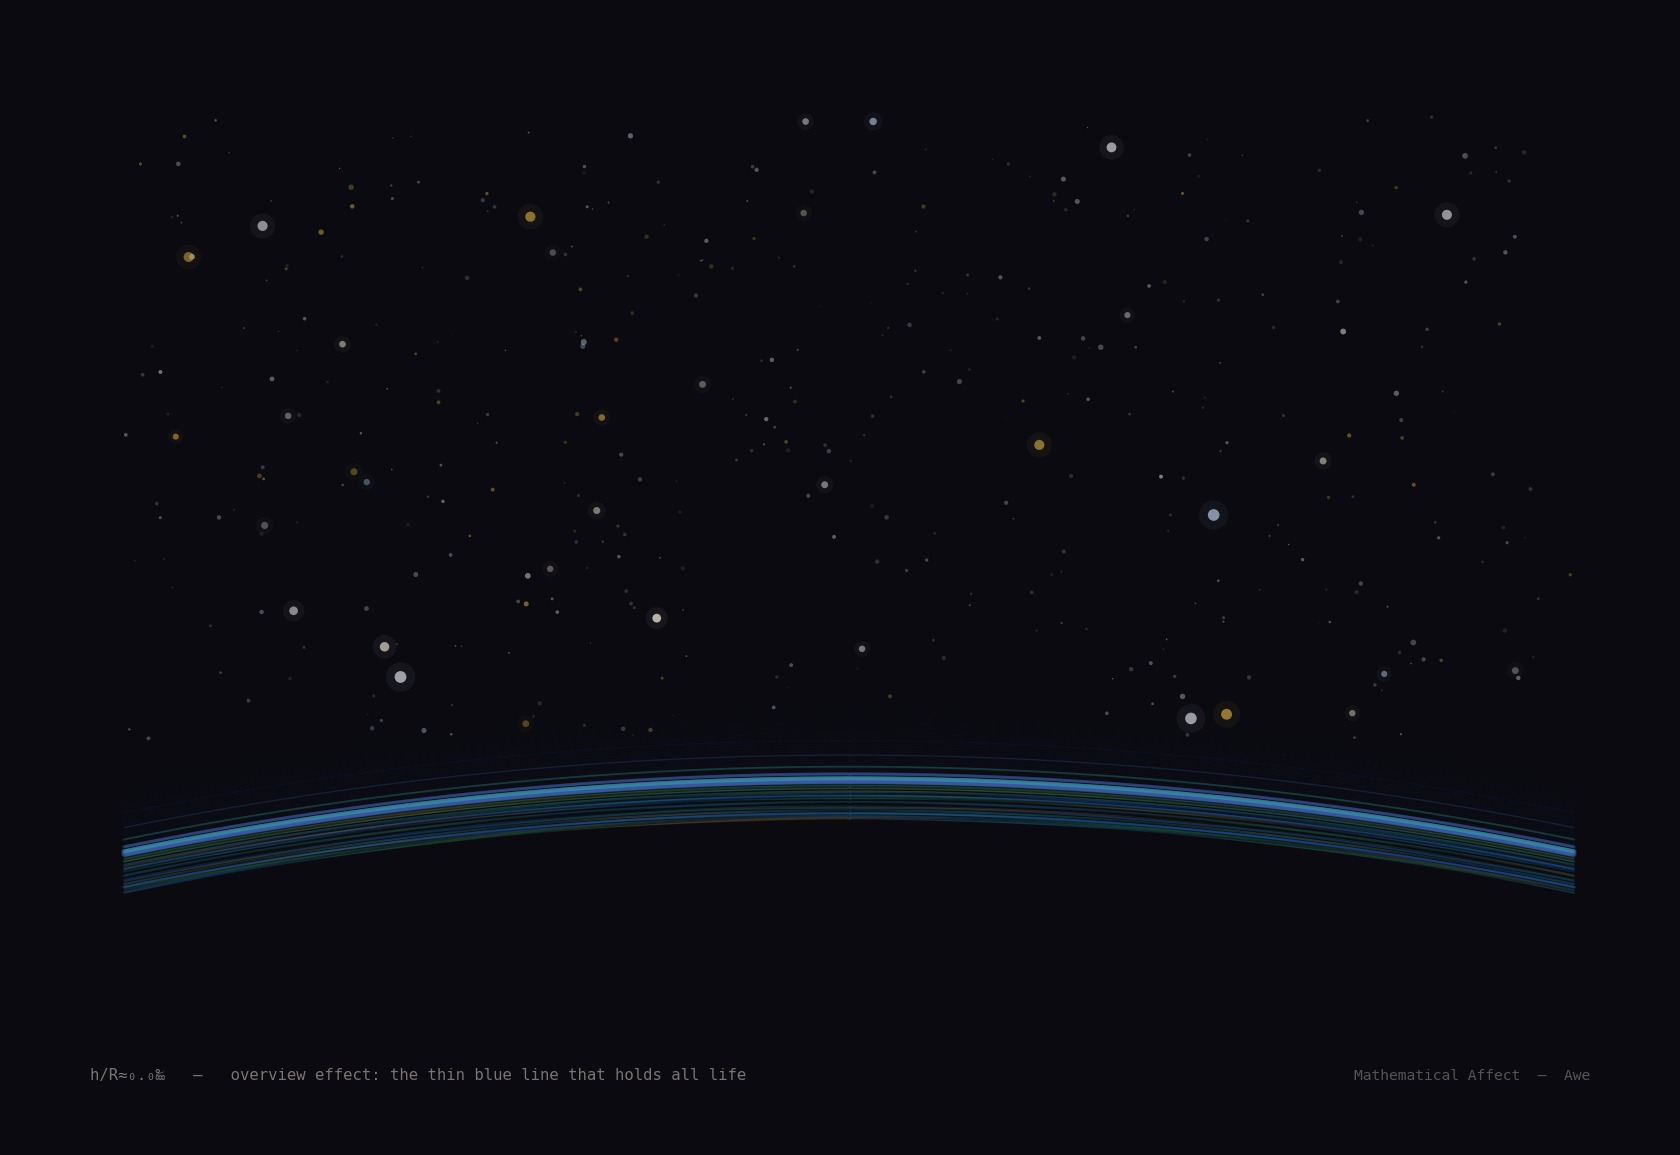
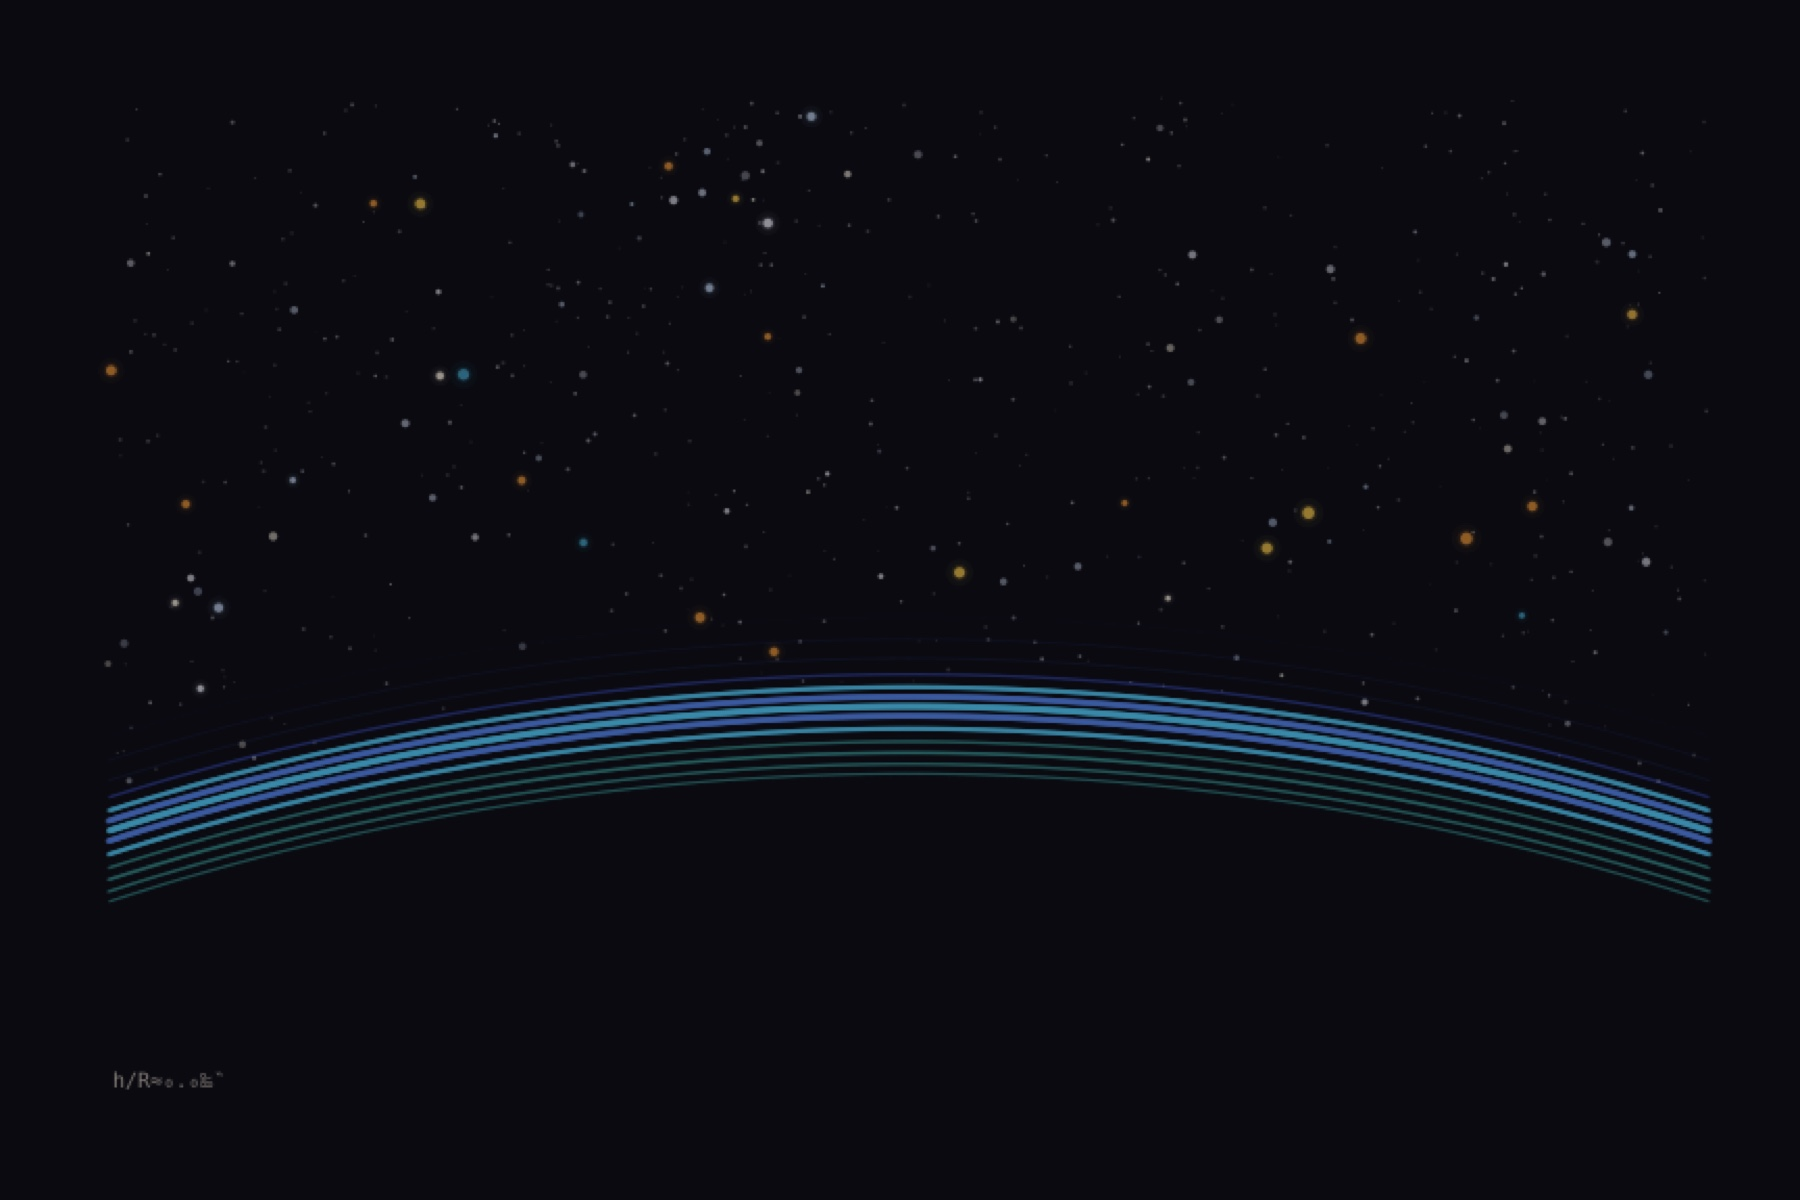
Ship awe series — all 5 standalone scripts, fix overview atmosphere lines
- awe_overview: wider arc curvature, clearly separated atmosphere layers
- awe_cosmic_web, awe_deep_field, awe_murmuration, awe_radiance: approved as-is
All 5 standalone scripts committed.

diff --git a/mathematical_affect/pieces/awe/awe_overview.py b/mathematical_affect/pieces/awe/awe_overview.py
@@ -141,34 +141,34 @@ def render():
     fig, ax = make_fig()
     rng = np.random.RandomState(42)
     # Large arc representing Earth's limb near bottom of canvas
-    earth_r = PW * 2.5  # very large radius — nearly flat curve
+    earth_r = PW * 1.6  # smaller radius — more visible curvature
     earth_cx = cx
-    earth_cy = PAD_B - earth_r + PH * 0.25
+    earth_cy = PAD_B - earth_r + PH * 0.30
 
-    theta_range = np.linspace(-0.20, 0.20, 1000)
+    theta_range = np.linspace(-0.38, 0.38, 1000)
 
-    # --- 1. Primary atmosphere layers: 12 distinct arcs forming thick band ---
-    #     Inner (0-3): teal/green tones
-    #     Core  (4-7): bright cyan/azure — brightest
-    #     Upper (8-11): deeper cosmic/blue — fading out
-    #     Dimmed overall so individual lines are visible
+    # --- 1. Primary atmosphere layers: distinct arcs with clear separation ---
+    #     Inner: teal/green tones
+    #     Core:  bright cyan/azure — brightest
+    #     Upper: deeper cosmic/blue — fading out
     primary_layers = [
         # offset_frac,  color,   alpha, lw
-        # Inner layers — TEAL greens
-        (0.001, TEAL,   0.28, 1.5),
-        (0.004, TEAL,   0.30, 1.6),
-        (0.007, TEAL,   0.32, 1.8),
-        (0.010, TEAL,   0.30, 1.6),
-        # Core layers — bright CYAN / AZURE
-        (0.013, CYAN,   0.40, 2.0),
-        (0.016, AZURE,  0.45, 2.5),
-        (0.019, CYAN,   0.43, 2.5),
-        (0.022, AZURE,  0.40, 2.0),
+        # Inner layers — TEAL greens, well separated
+        (0.002, TEAL,   0.45, 1.2),
+        (0.008, TEAL,   0.50, 1.4),
+        (0.015, TEAL,   0.55, 1.6),
+        (0.022, TEAL,   0.50, 1.4),
+        # Core layers — bright CYAN / AZURE, prominent
+        (0.030, CYAN,   0.65, 2.2),
+        (0.038, AZURE,  0.75, 2.8),
+        (0.044, CYAN,   0.80, 3.0),
+        (0.050, AZURE,  0.75, 2.8),
+        (0.056, CYAN,   0.65, 2.2),
         # Upper layers — deeper COSMIC / DEEP blue
-        (0.026, COSMIC, 0.22, 1.3),
-        (0.031, DEEP,   0.16, 1.0),
-        (0.037, COSMIC, 0.12, 0.8),
-        (0.044, DEEP,   0.08, 0.5),
+        (0.064, COSMIC, 0.35, 1.4),
+        (0.074, DEEP,   0.25, 1.0),
+        (0.086, COSMIC, 0.15, 0.8),
+        (0.100, DEEP,   0.08, 0.5),
     ]
     for off, col, alpha, lw in primary_layers:
         r_ = earth_r + PW * off
@@ -182,7 +182,7 @@ def render():
             draw_lc(ax, seg_xs, seg_ys, col, lw=lw, alpha=alpha, zo=4)
 
     # --- 2. Subtle atmospheric glow lines (dimmed for line visibility) ---
-    n_atm = 40
+    n_atm = 15
     glow_colors = [TEAL, CYAN, AZURE, COSMIC]
     for i in range(n_atm):
         r_atm = earth_r + PW * (0.001 + i / n_atm * 0.06)
